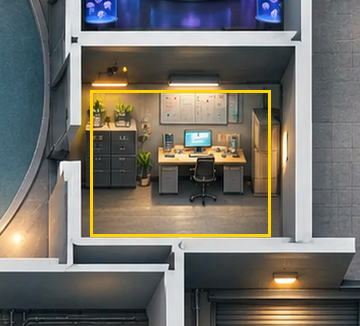
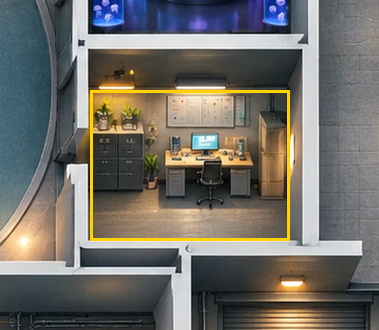
Cutaway spike: widen masks 03 and 04 to clear old room contents, engine-checked
Claude-Session: https://claude.ai/code/session_015gowGr7XErynRgXchMmhL4

diff --git a/docs/spikes/cutaway-l1-correction/README.md b/docs/spikes/cutaway-l1-correction/README.md
@@ -87,6 +87,8 @@ Order: 01 first, then 02, 03, 04, then 05 to 08. Do one region per pass. Never c
 | --- | --- | --- |
 | 01 Living Shore | PASS (Nov 10). Accepted deviations: illegible poster and stand marks, stone coping instead of a rail, a faint tonal ring. | `master-L1-v2.png` |
 | 02 Jelly Room | PASS (Nov 10), with the mask revised to (1184, 286)–(1383, 436). The original inset kept pump-room pixels at the room's edges. | `master-L1-v3.png` |
+| 03 Seasonal | Mask widened before editing to (1184, 493)–(1383, 643): office furniture touched the original box. Not sent yet. | |
+| 04 Atrium | Mask widened before editing to (823, 716)–(1254, 897): pipes crossed the original box's top and right edges. Not sent yet. | |
 
 ## Paste-ready prompt for GPT (region 02, against v2)
 
